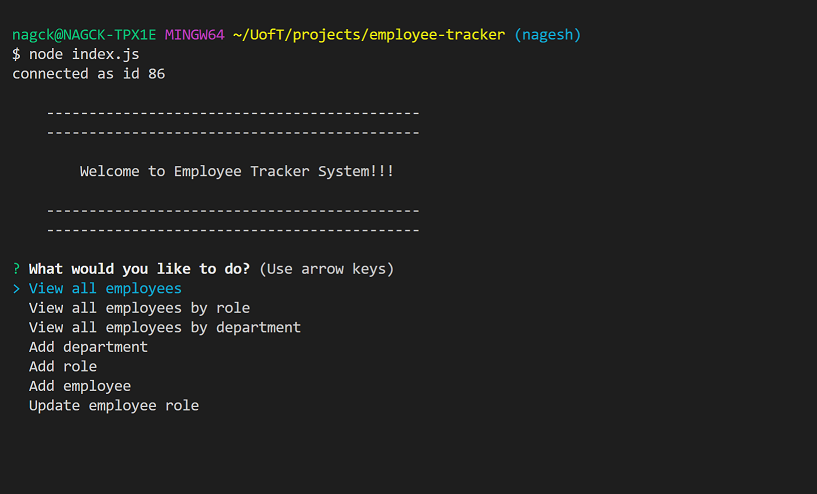
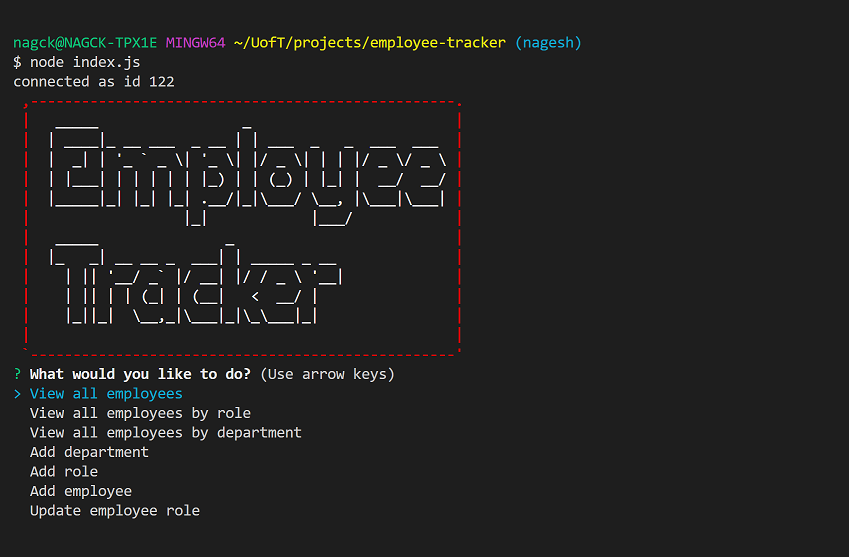
Updated index.js to fix bug in employee role update, updated README to inlcude updated video, added new log using asciiart, added chalk to color console log messages

diff --git a/index.js b/index.js
@@ -2,33 +2,56 @@
 const mysql = require("mysql");
 const inquirer = require("inquirer");
 const table = require("console.table");
+const logo = require('asciiart-logo');
+const chalk = require('chalk');
+
+//Variables
+let employeeNames = [];
+let employeeRoles = [];
 
 // MySQL connection information 
 const connection = mysql.createConnection({
   host: "localhost",
   port: "3306",
   user: "root",
-  password: "",
+  password: "nagesh",
   database: "employee_db"
 });
 // Create and test database connection 
 connection.connect((err) => {
     if (err) throw err;
     console.log(`connected as id ${connection.threadId}`);
-    startPrompt();
+    start();
 });
 
+const start = () => {
+    console.log(
+    logo({
+        name: 'Employee Tracker',
+        font: 'Standard',
+        lineChars: 10,
+        padding: 1,
+        margin: 1,
+        borderColor: 'red',
+        logoColor: 'white',
+        textColor: 'red',
+    })
+    .render()
+);
+    startPrompt();
+};
 // Function to start Inquirer prompts for user to select required action
 const startPrompt = () => {
-    console.log(`
-    --------------------------------------------
-    --------------------------------------------
+    // console.log(`
+    // --------------------------------------------
+    // --------------------------------------------
     
-        Welcome to Employee Tracker System!!!
+    //     Welcome to Employee Tracker System!!!
 
-    --------------------------------------------
-    --------------------------------------------
-    `);
+    // --------------------------------------------
+    // --------------------------------------------
+    // `);
+    
     inquirer.prompt({
         name: 'action',
         type: 'list',
@@ -255,42 +278,80 @@ const addEmployee = () => {
 
 //Function to update Employee Role'
 const updateEmpRole = () => {
-    connection.query(`SELECT e.first_name, e.last_name ,role.title
-    FROM employee e
-    INNER JOIN role ON e.role_id = role.id;`, (err,res) => {
-        if (err) throw err;
-        console.table(res);
-        inquirer.prompt([
-            {
-                name: 'name',
-                type: 'rawlist',
-                message: 'What is the last name of the employee to be updated?',
-                choices: lastNameChoices()
-                   
-            },
-            {
-                name: 'role',
-                type: 'rawlist',
-                message: "What is the employee's new title?",
-                choices: roleChoices()
+  
+    connection.query(
+        `
+        SELECT id, CONCAT(first_name,' ',last_name) AS employee
+        FROM employee
+        `,
+        (err, names) => {
+            if (err) throw err;
+
+            for (let i = 0; i < names.length; i++) {
+                employeeNames.push(names[i].employee);
             }
-        ])
-        .then((answer) => {
-            let roleId = roleChoices().indexOf(answer.role) + 1
-            let lastName = lastNameChoices().indexOf(answer.name) + 1
-            connection.query("UPDATE employee SET WHERE ?", 
-            {
-                role_id: roleId
-            },
-            {
-                last_name: lastName 
-            },
-            (err) => {
-                if (err) throw err;
-                console.table(answer);
-                startPrompt();
-            })
-        });
-    });
-}
+            connection.query(
+                `
+                SELECT id, title  
+                FROM role
+                `,
+                (err, roles) => {
+                    if (err) throw err;
+                    for (let i = 0; i < roles.length; i++) {
+                        employeeRoles.push(roles[i].title);
+                    }
+                    inquirer
+                        .prompt([{
+                            name: 'employeeName',
+                            type: 'list',
+                            message: 'Which employee name would you like to change the role for?',
+                            choices: employeeNames
+                        }, {
+                            name: 'employeeRole',
+                            type: 'list',
+                            message: 'Please select the new role for your selected employee',
+                            choices: employeeRoles
+                        }])
+                        .then((answer) => {
+
+                            // Set variable for role and employee IDs
+                            let roleID;
+                            let employeeID;
+
+                            // Get the employee.id
+                            for (i = 0; i < names.length; i++) {
+                                if (answer.employeeName == names[i].employee) {
+                                    employeeID = names[i].id;
+                                }
+                            }
+
+                            // Get the role.id
+                            for (i = 0; i < roles.length; i++) {
+                                if (answer.employeeRole == roles[i].title) {
+                                    roleID = roles[i].id;
+                                }
+                            }
+
+                            connection.query(
+                                'UPDATE employee SET ? WHERE ?', [{
+                                        role_id: roleID,
+                                    },
+                                    {
+                                        id: employeeID,
+                                    },
+                                ],
+                                (err, res) => {
+                                    if (err) return err;
+
+                                    console.log(chalk.green(`\n Employee ${answer.employeeName}, role has been updated to the title of: ${answer.employeeRole} \n`));
+                                    startPrompt();
+                                }
+                            )
+
+                        })
+                })
+
+        })
+
+};
 

diff --git a/README.md b/README.md
@@ -26,10 +26,7 @@ node index.js
 
 
 ## Link to walkthrough video demonstrating the functionality of the application (Better Quality):
-https://drive.google.com/file/d/1WMEA1FJfTRvNbD1p8CjrFqiZoC4CC9vT/view
-
-## Video of functional application(GIF):
-![Employee Tracker](Assets/images/emp-tracker.gif)
+https://drive.google.com/file/d/1xzN0oqtSLhGorFpjjDHNdIMldza2XBbW/view
 
 ## Credits
 
